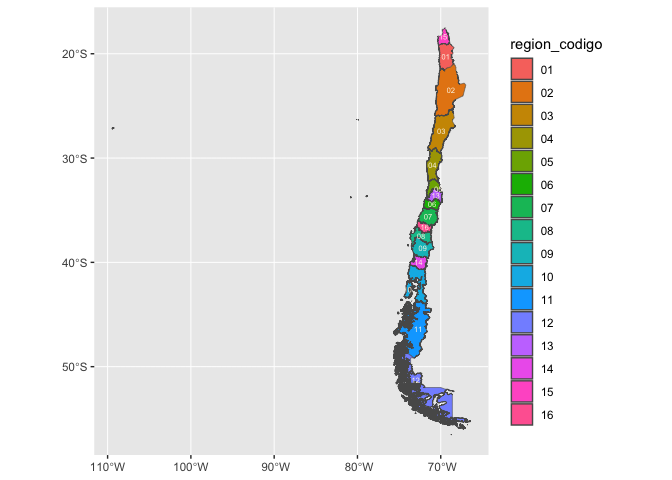
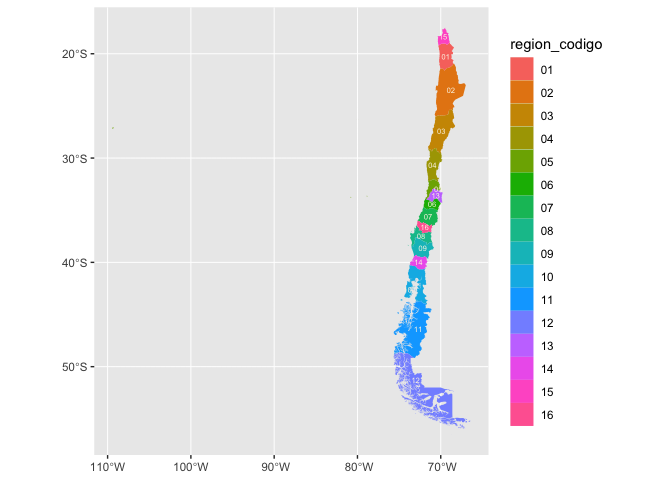
readme

diff --git a/README.md b/README.md
@@ -57,7 +57,7 @@ chile_region_flat %>%
 ggplot() +
 aes(region_codigo = region_codigo, fill = region_codigo,
     label = region_codigo) +
-geom_sf_regionchile() +
+geom_sf_regionchile(linewidth = 0) +
 geom_label_chile_region(lineheight = .7,
 size = 2, check_overlap= TRUE,
 color = "oldlace")
